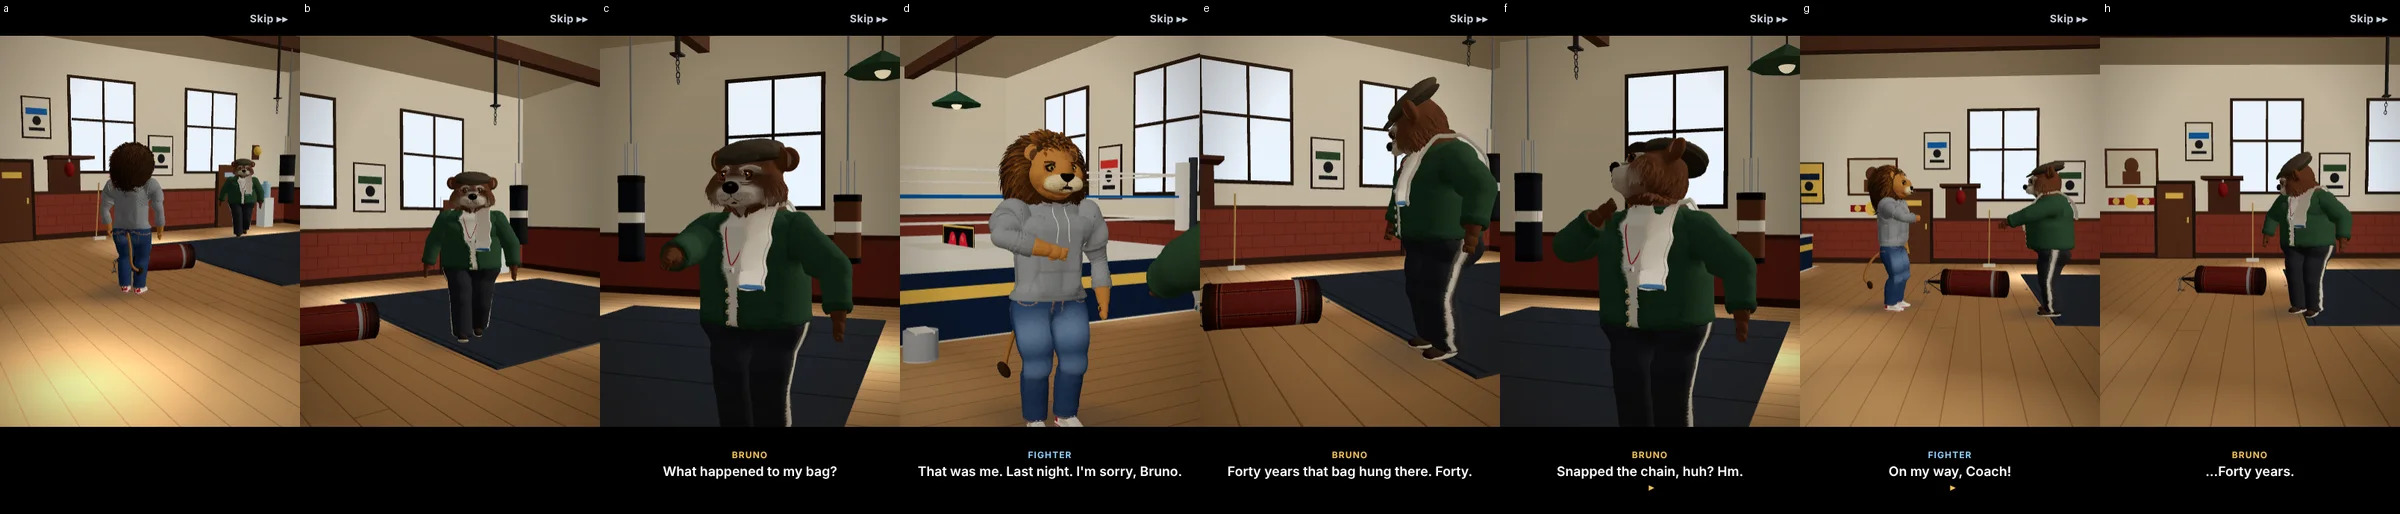
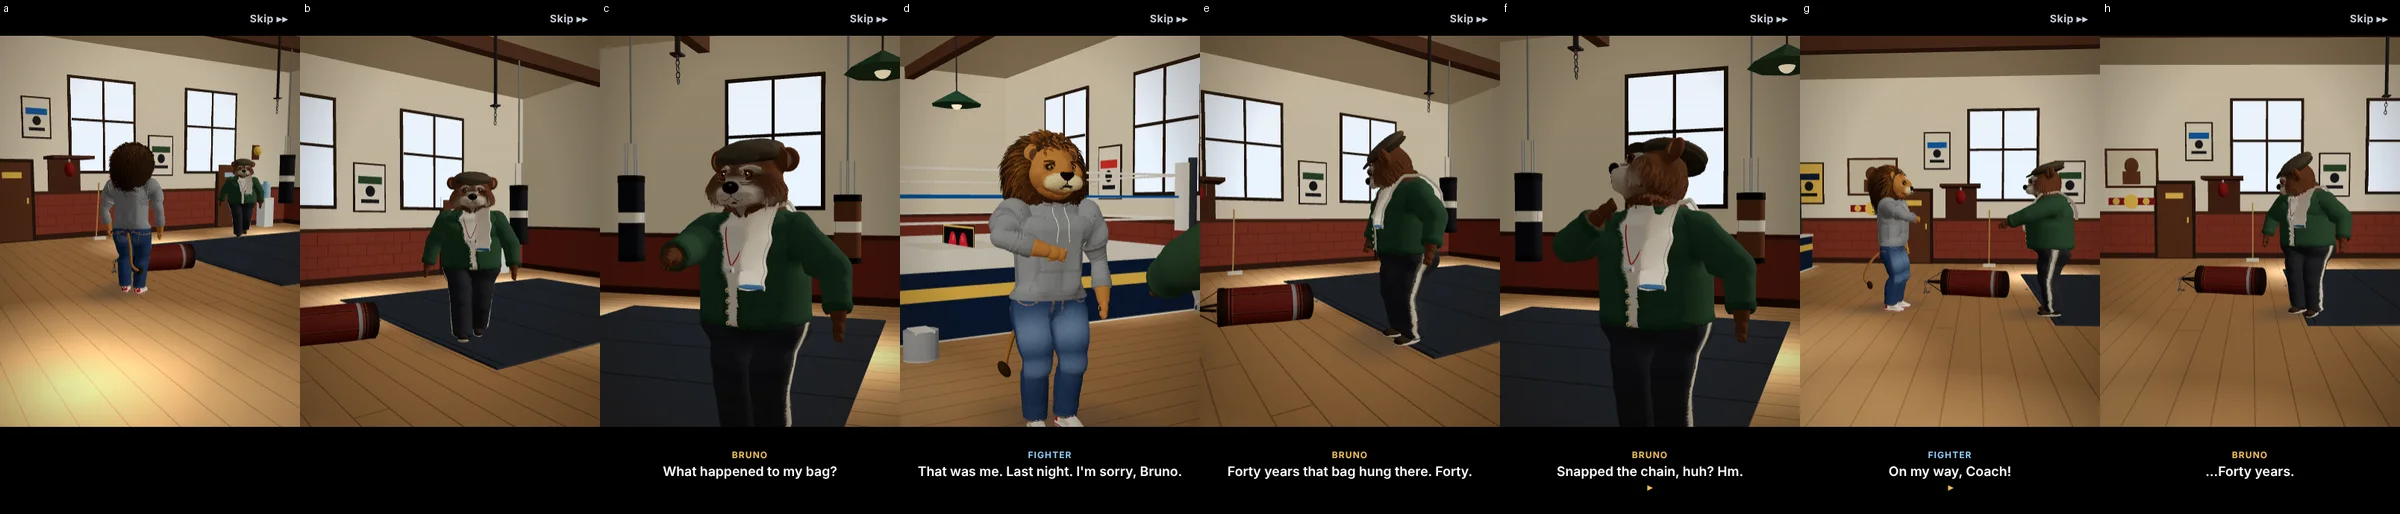
GOTR-0096: Fang's outfit follows the timeline when playback jumps over the jacket beat; final evidence strips
Claude-Session: https://claude.ai/code/session_012XYxhJ7jTb1Ye5xdCZM7vq

Changed region(s): [[0.4375, 0.0623, 0.625, 0.7471]]

diff --git a/adventure/story/dream-scenes.js b/adventure/story/dream-scenes.js
@@ -53,7 +53,8 @@ d.tabIndex = -1; try { d.showModal(); } catch { d.setAttribute('open', ''); } d.
     const run = { id, closed: false, t: 0, clock: 0, ack: -1, waiting: false, shot: 0, lineIndex: -1, phase: 'load', mapT: 0, bought: !!opts.owned, buying: false };
     current = run;
     let set = null, scene = null, camera = null, borrowed = [], rigs = {}, stageMove = null, oldFit = null, blobs = [], floorBag = null, map = null, mapScene = null, mapCam = null, lineKey = '', lineAt = 0, ended = false, props = null;
-    const look = V(), turn = new Map();
+    const look = V(), turn = new Map(), jacketAt = {}; // the time of each actor's jacket-off key (Fang, GOTR-0096)
+    for (const [k, a] of Object.entries(scene0.actors || {})) { const j = a.keys.find(q => q.act === 'jacketoff'); if (j) jacketAt[k] = j.t; }
     const finish = (result = {}) => {
       if (run.closed) return; run.closed = true; if (current === run) current = null;
       try { cleanup(); } catch (x) { console.warn('dream', x); }
@@ -189,6 +190,9 @@ d.tabIndex = -1; try { d.showModal(); } catch { d.setAttribute('open', ''); } d.
           let u = (run.clock % BOX_T), move = 'guard', ph = 0; if (a.act === 'box') for (const [m, dur] of BOX) { if (u < dur) { move = m; ph = u / dur; break; } u -= dur; }
           if (move === 'guard') c.update(run.clock, 'guard', 'one_two', { simulationTime: run.clock, keepFaceClear: true, guardCover: 1 }); else c.update(ph * 1.22, move, 'one_two', { simulationTime: run.clock, keepFaceClear: true, guardCover: 1, power: 1.15, recoil: 0, advance: 0, contactDrive: 0 });
           Pose().reset(c);
+        } else if (a.act !== 'jacketoff' && c.castFight && jacketAt[k] != null && Cast().market) { // before / after Fang's jacket beat, whatever the playback jumped over
+          const J = window.MarketCore?.JACKET_T || 2.2; if (run.t >= jacketAt[k] + J) { if (c.castWear !== 'fight' || !c.castJacketGround?.visible) Cast().market.jacketOff(c, 1); } else if (run.t < jacketAt[k] && c.castWear !== 'jacket') Cast().market.wear(c, 'jacket');
+          Pose().civil(c, { t: run.clock, dt, dist: a.dist, walk: a.walking ? 1 : 0, arms: a.arms || {}, reach: props?.reach(k, run.t), look: lookFor(a, k, s), lean: a.lean || 0, drop: a.drop || 0, talk: talking === k ? 1 : 0, listen: talking && talking !== k ? 1 : 0, nod: 0 });
         } else if (a.act === 'jacketoff' && Cast().market?.jacketOff) {
           const u = clamp(a.actT / (window.MarketCore?.JACKET_T || 2.2)), p = Cast().market.jacketOff(c, u) || {}; // Fang, before the street fight
           Pose().civil(c, { t: run.clock, dt, dist: a.dist, walk: 0, arms: p.arms || {}, look: p.look || lookFor(a, k, s), lean: p.lean || 0, talk: talking === k ? 1 : 0, listen: talking && talking !== k ? 1 : 0, nod: 0 });
